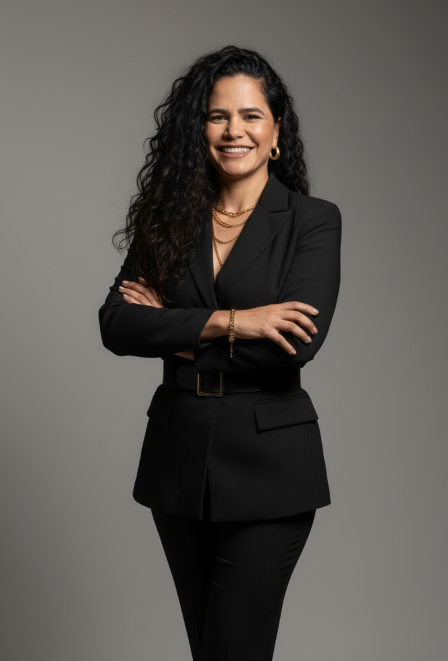
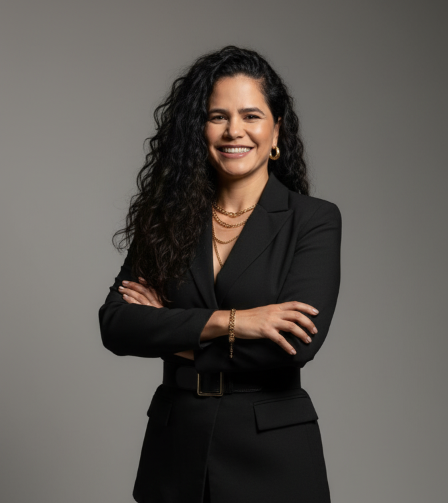
Update Dr. Fernando about portrait and Dra. Maria team portrait with new cropped files, adjust crop alignment to center top

Changed region(s): [[0.2188, 0.0596, 0.7812, 1.0], [0.4375, 0.7455, 0.5, 0.8052]]

diff --git a/css/styles.css b/css/styles.css
@@ -2167,7 +2167,7 @@ html {
 
 /* Custom image crop positioning for Dr. Fernando */
 .img-about-dr-fernando {
-  object-position: center 38% !important;
+  object-position: center top !important;
 }
 
 .img-dr-fernando {
@@ -2175,5 +2175,5 @@ html {
 }
 
 .img-dra-maria {
-  object-position: center -20px !important;
+  object-position: center top !important;
 }